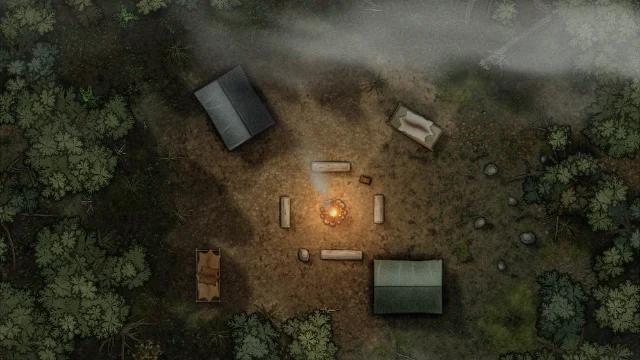
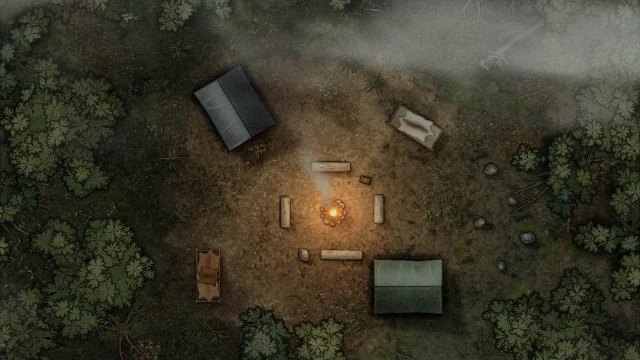
misty camp scatters loose twigs across the floor
closes the ground items left open in the textured terrain front

diff --git a/scripts/exemplos/acampamento-na-nevoa.ts b/scripts/exemplos/acampamento-na-nevoa.ts
@@ -60,8 +60,8 @@ export const acampamentoNaNevoa: Exemplo = {
     carimbo('moita-de-samambaia', 6, 6.5, 11, 0.7);
     carimbo('folhico', 7, 5.5, 11, 0.6, () => ({ raio: 0.5 + k.rng() * 0.4 }));
     carimbo('galhada', 3, 5, 10, 0.6);
-    // Gravetos soltos (galhada pequena) e brotos por todo o chão fora do miolo da clareira.
-    carimbo('galhada', 9, 4, 12, 0.6, () => ({}), () => 0.5 + k.rng() * 0.15);
+    // Gravetos pálidos soltos e brotos por todo o chão; os gravetos chegam mais perto da fogueira (lenha que caiu no caminho).
+    carimbo('gravetos', 34, 3, 12.5, 0.3, () => ({ raio: 0.5 + k.rng() * 0.5 }));
     carimbo('brotos', 70, 4, 12.5, 0.25, () => ({ raio: 0.6 + k.rng() * 0.5 }));
 
     // Raízes que saem de debaixo das copas pequenas e de troncos fora do quadro, na borda da clareira.

diff --git a/progress.md b/progress.md
@@ -700,3 +700,4 @@ A Fase 9 está concluída. A Fase 6 está concluída, menos a 6.2b (importar os 
 - **P8 (2026-11-20):** `acampamento-na-nevoa` refeito com o chão novo: tronco caído de 5 m a nordeste, raízes saindo das copas pequenas, manchas de musgo, capim alto na franja, brotos, samambaias, folhiço e galhada sorteados fora da fogueira e dos abrigos. Guia (`lugares.md`): chão de mata dispensa detrito miúdo; quando usar `musgo` e cada carimbo.
 - **Q1 (2026-11-20):** `Familia` e `GrupoDeTerreno` ganham `generos?`/`biomas?`; `BIOMAS` e `familiasVisiveis(genero, bioma)` em `familias.ts`. Nada na interface lê as marcas ainda (Q2). Teste cruza receita e família com `listaDeReceitas()`.
 - **Q3 (2026-11-20):** oito gêneros de época em `GENEROS` (com `herda?`), cinco presets de luz novos, `LUZES_POR_GENERO` completo; materiais e paletas dos gêneros novos copiam o mais próximo até as fichas `c`. `generosVisiveis` em `presets.ts` faz `familiasVisiveis` aceitar famílias dos gêneros herdados.
+- **Pendências da Frente P (2026-11-21):** carimbo `gravetos` (gravetos pálidos soltos, sem nanquim) em `src/procedural/receitas/chao.ts`, na família de folhiço, no `mata-fechada` e no acampamento; sombra das árvores mais rala (`TRANSPARENCIA_DA_COPA = 0.62` em `src/render/sombras-do-sol.ts`). Jardim do colosso refeito (60 × 34 m, manhã dourada) com a receita `sombra-de-colosso`, que entra na camada das sombras do sol (tag `sombra-projetada`).

diff --git a/docs/plano/terreno-com-textura.md b/docs/plano/terreno-com-textura.md
@@ -171,6 +171,8 @@ Feito em 2026-11-20. Na comparação de perto (recortes na mesma escala), a dens
 - **Gravetos claros soltos:** a referência tem gravetos pálidos de 10 a 20 cm espalhados por todo o chão. A `galhada` em escala pequena virou asterisco, então ficou em poucos montes. Se fizer falta, a saída é um carimbo de mancha (como `brotos`) com gravetos soltos sem nanquim.
 - **Sombra das copas:** a mata fica mais escura que na referência por causa da sombra da lua das copas. Isso é luz (Frente L), não chão.
 
+Feito depois (2026-11-21): o carimbo `gravetos` (gravetos pálidos de 10 a 20 cm, sem nanquim, só sombra macia e fio de luz; tag `rasteira`) entrou na família de folhiço, no conjunto `mata-fechada` e no acampamento, no lugar da `galhada` pequena. A sombra do sol e da lua das árvores passou a ser mais rala (`TRANSPARENCIA_DA_COPA = 0,62` em `sombras-do-sol.ts`): a copa deixa passar luz entre as folhas, e o chão sob a mata aparece.
+
 ## Ordem sugerida
 
 P1 → P2 → P3 (pode ir junto com a P2) → P4 → P5 → P6, com a P7 em paralelo a qualquer momento, e a P8 no fim. A P1 depende do usuário aprovar a prancha.
